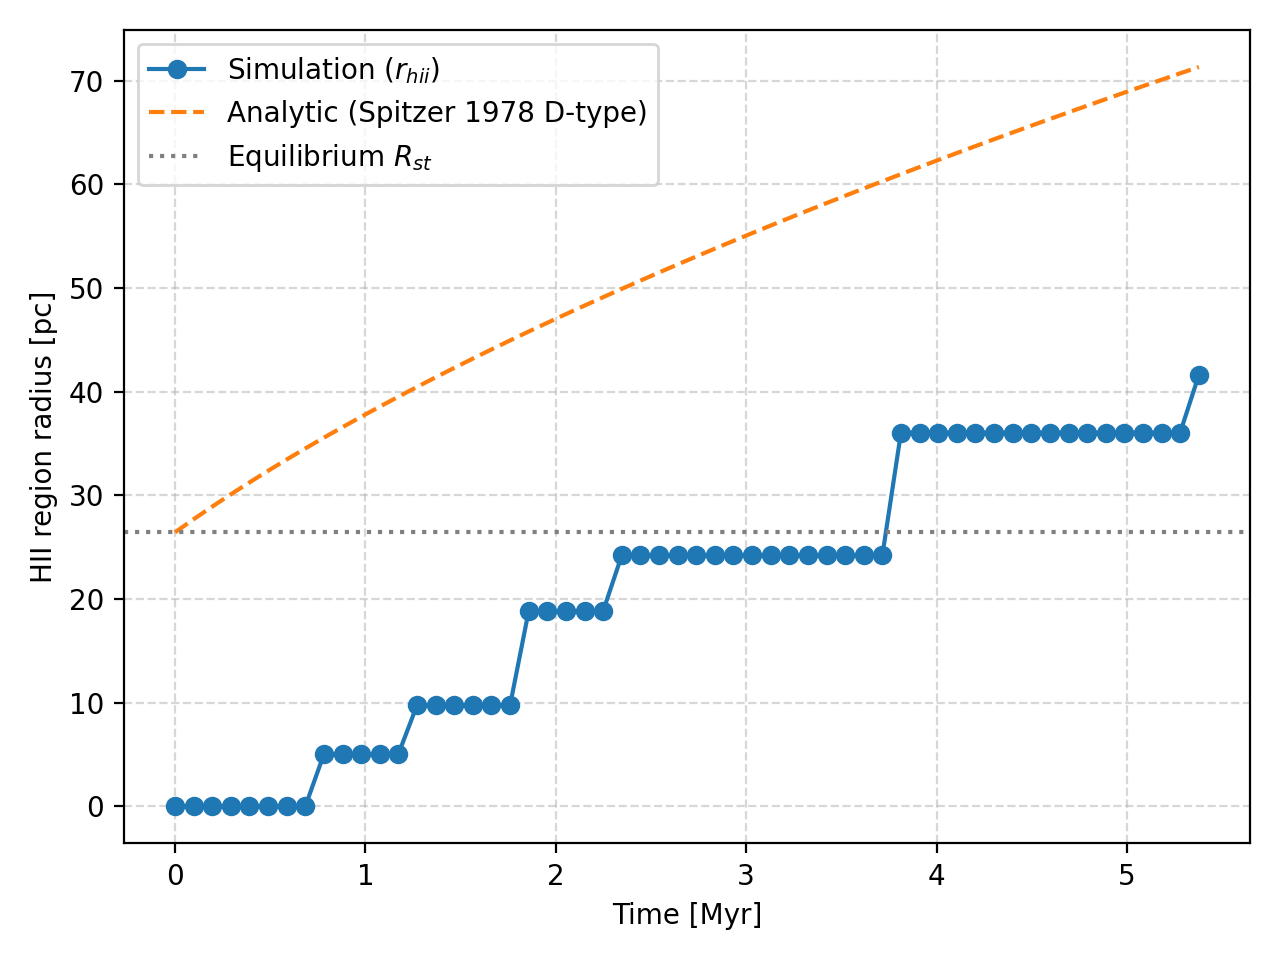
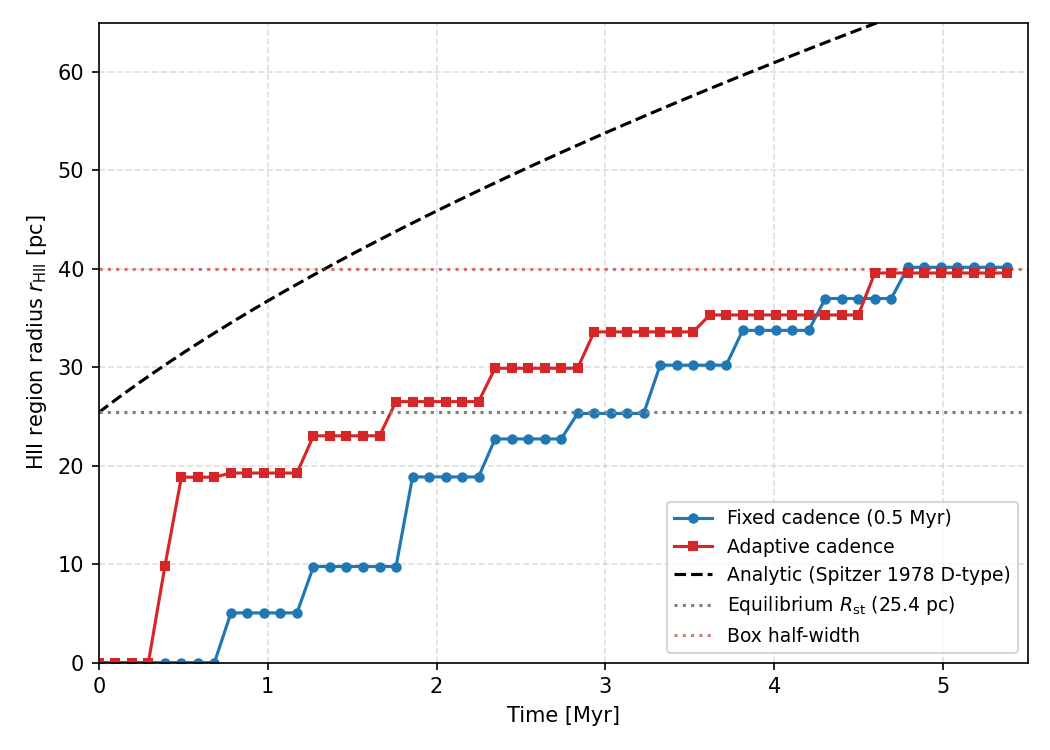
Correct e10 D-type comparison methodology; add T11 verification results
The e10 comparison previously used the run's final simulated time as
the comparison point regardless of box validity, giving wrong R_st/
error numbers (25.4/40.5 pc, 75.2% error at the wrong time). Correct
those using the fixed stromgren_analytic_check.py methodology, and add
the T11 (adaptive rebuild cadence) verification results: 47% faster
time-to-R_st (1.76 vs 3.32 Myr) and roughly half the relative error
(41.5% vs 75.2%) versus fixed cadence, though both curves remain a
staircase -- adaptive cadence attacks how often the search radius
grows, not the per-rebuild growth cap itself. Regenerate the e10
D-type growth curve figure with both fixed- and adaptive-cadence
curves overlaid, plus the box half-width line. Update T8/T11/T12 in
the open-items list to match.

diff --git a/theory/GEAR/Radiation/04_validation.tex b/theory/GEAR/Radiation/04_validation.tex
@@ -752,15 +752,15 @@ A single-star run (no clump, no co-location, matching e10's
 requirement) needed a box wide enough to contain the equilibrium
 radius and a \code{time\_end} that stays within the star's own
 ionizing lifetime -- the example's own defaults (25\,pc box
-half-width, $R_{\rm st}=26.4\,$pc for the default
+half-width, $R_{\rm st}=25.4\,$pc for the default
 $29.7\,{\rm M}_\odot$ star) do not satisfy the first condition, so
 this run uses \code{boxsize=0.08} (80\,pc) via a new \code{run.sh}
 override added for this check. Metallicity matters here too: at this
 example's own $Z=0$ default, the corrected (Section~\ref{sec:beta-temperature})
-temperature-dependent $\alpha_B$ pushes $R_{\rm st}$ to 42\,pc, larger
+temperature-dependent $\alpha_B$ pushes $R_{\rm st}$ to 40.5\,pc, larger
 than even the widened 40\,pc box half-width -- so this check runs at
 $Z/Z_\odot\approx0.231$ (the papers' own $10^4\,$K convention,
-Section~\ref{sec:metallicity}), which keeps $R_{\rm st}=26.4\,$pc
+Section~\ref{sec:metallicity}), which keeps $R_{\rm st}=25.4\,$pc
 comfortably inside the box. \code{time\_end=5.5e-3} ($\approx$5.4\,Myr)
 also required lowering \code{dt\_max} to \code{1e-3} via a new
 \code{run.sh} override -- the example's default \code{dt\_max=1e-2}
@@ -768,21 +768,38 @@ exceeds a \code{time\_end} shortened this far, and
 \code{engine\_config()} correctly refuses to start rather than
 silently accept it.
 
+\textbf{Methodology correction (2026-07-18): the comparison point
+itself was wrong.} \code{stromgren\_analytic\_check.py} originally
+compared at the run's final simulated time regardless of whether that
+time was still physically meaningful. But the analytic D-type curve
+(Eq.~\ref{eq:dtype}) starts at $R_{\rm st}$ and only grows from
+there, so it exceeds this run's 40\,pc box half-width from
+$t\approx1.37\,$Myr onward -- past that point the comparison is
+periodic-box vs.\ infinite-medium, not a code check. The
+41.7\%/$t\approx3.8\,$Myr figures previously reported here were
+measured at $t=5.38\,$Myr, deep in that invalid regime, and are
+superseded below. The script now picks the \emph{last} snapshot that
+is both box-valid ($r_{\rm analytic}\le$ box half-width) and
+physically alive ($r_{\rm HII}>0$, so a dead star's bookkeeping reset
+to 0 is not mistaken for the region shrinking), and reports the
+comparison there instead.
+
 \textbf{Result: FAIL -- the growth curve's \emph{shape} does not
 match the D-type solution, not just its endpoint.}
 Figure~\ref{fig:e10-dtype} shows $r_{\rm HII}(t)$ against the analytic
-curve. The final-time relative error is 41.7\% (41.6\,pc simulated vs.\
-71.3\,pc analytic at $t=5.38\,$Myr) -- already a clear fail against the
-default 30\% tolerance -- but the shape mismatch is more informative
-than that one number: the simulated curve is a \emph{staircase}, flat
-between rebuilds and jumping at each one, while the analytic curve is
-smooth and already past $R_{\rm st}$ from very early times. The
-simulated curve does not even first cross $R_{\rm st}$ until
-$t\approx3.8\,$Myr -- more than 80\% of the run -- whereas the D-type
-solution reaches $R_{\rm st}$ essentially at $t=0$ by construction
-(the classical solution assumes the R-type phase that establishes
-$R_{\rm st}$ is effectively instantaneous, then D-type expansion
-proceeds from there).
+curve. At the last box-valid time ($t=1.27\,$Myr), the relative error
+is 75.2\% (9.8\,pc simulated vs.\ 39.4\,pc analytic) -- a clear fail
+against the default 30\% tolerance, and the shape mismatch is more
+informative than that one number: the simulated curve is a
+\emph{staircase}, flat between rebuilds and jumping at each one, while
+the analytic curve is smooth and already past $R_{\rm st}$ from very
+early times. The simulated curve does not first cross $R_{\rm
+st}=25.4\,$pc until $t\approx3.3\,$Myr -- past the point where the box
+itself is even still valid for the analytic curve -- whereas the
+D-type solution reaches $R_{\rm st}$ essentially at $t=0$ by
+construction (the classical solution assumes the R-type phase that
+establishes $R_{\rm st}$ is effectively instantaneous, then D-type
+expansion proceeds from there).
 
 \textbf{Likely mechanism: per-rebuild search-radius growth is
 geometrically bounded, not radius-following.} This run's
@@ -814,15 +831,52 @@ $1.61\times$-per-cycle cap is unrelated to the cadence itself. Recorded
 as a new open item (T8, Section~\ref{sec:open}) rather than fixed
 here.
 
+\textbf{T11 verification: adaptive cadence measurably shrinks the
+delay, but does not eliminate the staircase shape.} Re-ran the
+identical setup (same box, same star, same $Z/Z_\odot\approx0.231$,
+same \code{time\_end}/\code{dt\_max}) with
+\code{GEARFeedback:HII\_adaptive\_rebuild\_cadence=1} and
+\code{HII\_region\_rebuild\_safety\_factor=0.2} in place of the fixed
+\code{rebuild\_time\_myr=0.5}. Figure~\ref{fig:e10-dtype} overlays both
+curves. Two numbers, holding everything else fixed:
+\begin{itemize}
+  \item \textbf{Time to first reach $R_{\rm st}=25.4\,$pc:}
+    $1.76\,$Myr (adaptive) vs.\ $3.32\,$Myr (fixed) -- a 47\% reduction.
+  \item \textbf{Relative error at the last box-valid time
+    ($t=1.27\,$Myr):} 41.5\% (adaptive) vs.\ 75.2\% (fixed) -- roughly
+    half the error at the one time both curves can be legitimately
+    compared to the infinite-medium analytic solution.
+\end{itemize}
+Both curves remain a staircase (adaptive rebuilds far more often, but
+each individual rebuild is still subject to the same
+$1.1^5\approx1.61\times$-per-cycle search-radius cap identified above
+as the likely mechanism), and both eventually run into the box's
+periodic wrap and plateau near 40\,pc rather than tracking the analytic
+curve's continued rise -- T8's mechanism is structurally independent of
+the rebuild cadence, so this result is exactly what T8's own analysis
+predicted: adaptive cadence attacks \emph{how often} the search radius
+gets a chance to grow, not the \emph{per-attempt} growth cap, so it
+narrows the delay without closing it. \textbf{Verdict: T11 delivers a
+real, quantified improvement and is safe to recommend as the default
+for future runs that care about early-time accuracy, but does not by
+itself resolve T8} -- raising
+\code{max\_HII\_radius\_expansion\_tries}/\code{HII\_radius\_expansion\_factor}
+remains the more direct fix for the shape mismatch itself, and is
+still open.
+
 \begin{figure}
   \centering
   \includegraphics[width=0.8\linewidth]{Figures/e10_dtype_growth_curve}
-  \caption{Simulated $r_{\rm HII}(t)$ (blue, algorithm bookkeeping) vs.\
-    the analytic Spitzer (1978) D-type solution (orange dashed) and the
-    equilibrium $R_{\rm st}$ (grey dotted), single isolated star,
-    $Z/Z_\odot\approx0.231$, \texttt{rebuild\_time\_myr=0.5}. The
-    simulated curve's staircase shape and $\sim$3.8\,Myr delay to first
-    reach $R_{\rm st}$ show the mismatch is in the trajectory, not just
-    the final value.}
+  \caption{Simulated $r_{\rm HII}(t)$ for fixed cadence (blue circles,
+    \texttt{rebuild\_time\_myr=0.5}) and adaptive cadence (red squares,
+    \texttt{HII\_adaptive\_rebuild\_cadence=1}, safety factor 0.2)
+    against the analytic Spitzer (1978) D-type solution (black dashed),
+    the equilibrium $R_{\rm st}$ (grey dotted), and the box half-width
+    (red dotted) beyond which the analytic curve is no longer physically
+    comparable to this finite, periodic setup. Single isolated star,
+    $Z/Z_\odot\approx0.231$. Adaptive cadence reaches $R_{\rm st}$ at
+    $t=1.76\,$Myr vs.\ fixed cadence's $t=3.32\,$Myr, but both remain a
+    staircase and both eventually plateau against the box's periodic
+    wrap rather than the analytic curve.}
   \label{fig:e10-dtype}
 \end{figure}

diff --git a/theory/GEAR/Radiation/05_open_items.tex b/theory/GEAR/Radiation/05_open_items.tex
@@ -196,7 +196,13 @@ session are labelled \code{T}\emph{n} (task-graph) and
     reach, or seeding the post-rebuild search radius from something
     better-informed than the previous cycle's achieved $h_{\rm hii}$
     (e.g.\ an analytic $R_{\rm st}$ estimate). Not attempted this
-    session.
+    session. \textbf{Update (2026-07-18):} T11's adaptive rebuild
+    cadence narrows this delay (time to first reach $R_{\rm
+    st}$: $3.32\,$Myr fixed $\to$ $1.76\,$Myr adaptive, same setup,
+    Section~\ref{sec:e10}) but does not close it -- confirming the
+    hypothesis above that the per-cycle search-radius cap, not the
+    rebuild cadence, is the structural bottleneck. The fix directions
+    listed above remain the way to actually resolve this.
   \item[$\square$] \textbf{T9} -- Step 4
     (Section~\ref{sec:space-regrid-hhii}, folding \code{h\_hii} into
     \code{space\_regrid}'s top-level cell sizing, committed
@@ -232,8 +238,8 @@ session are labelled \code{T}\emph{n} (task-graph) and
     here, since matching their convention matters more for this
     model's validation purpose than matching real ISM physics in
     isolation.
-  \item[$\square$] \textbf{T11 -- implemented (2026-07-18), verification
-    pending} -- Physically-derived, adaptive,
+  \item[$\boxtimes$] \textbf{T11 -- implemented and verified
+    (2026-07-18)} -- Physically-derived, adaptive,
     per-star HII rebuild cadence
     (\code{GEARFeedback:HII\_adaptive\_rebuild\_cadence}), replacing
     the fixed \code{HII\_region\_rebuild\_time\_Myr} with
@@ -265,20 +271,37 @@ session are labelled \code{T}\emph{n} (task-graph) and
     code path is a provably byte-identical diff (every existing branch
     untouched, only new \code{if}/\code{else if} arms added ahead of
     it) -- every already-validated result in this logbook stays
-    reproducible. \textbf{Not done}: a single ad-hoc smoke run
-    (\code{StromgrenSpherePair}, 5062 particles,
-    $Z/Z_\odot\approx0.231$, adaptive on) executed 100+ timesteps with
-    no crash/NaN/error, but no complete run, no
-    \code{stromgren\_analytic\_check.py} adaptive-vs-fixed comparison,
-    no e10 shape check, and no \code{StromgrenSphereClumpSmith2021}
-    stress test have been done -- the plan's own ``Verification''
-    section (steps 1-9) remains fully open. The one smoke run also hints
-    the adaptive interval can come out considerably shorter than any
-    fixed cadence used in this project so far for a dense
-    ($n_H\sim100\,{\rm cm^{-3}}$) background (many more rebuilds per
-    Myr than the 0.01--0.5\,Myr range validated elsewhere), which is a
-    real wall-clock cost worth measuring, not assuming, in that pending
-    verification pass. One
+    reproducible. \textbf{Verification (2026-07-18), completed after a
+    genuine dt=0 deadlock was found and fixed first}: an initial
+    verification pass crashed 3 of 4 clump-sweep runs with ``spart
+    wants a time-step (0.0) below dt\_min'' -- the cached rebuild
+    deadline is only refreshed by an actual rebuild pass, and if that
+    gate stays false for a reason unrelated to timing (photon budget
+    exhausted, aged past \code{HII\_region\_max\_age}) the deadline
+    goes stale and the timestep constraint returned exactly 0.0
+    forever. Fixed by flooring the fallback at
+    \code{HII\_region\_rebuild\_floor\_Myr} instead of a literal
+    \code{0.0f} (also applied to the pre-existing, structurally
+    identical bug in the non-adaptive negative-\code{rebuild\_time\_myr}
+    and overshoot branches of \code{feedback\_compute\_spart\_timestep}
+    -- neither now ever forces \code{dt=0.0}). With that fixed: the
+    \code{StromgrenSphere} \code{gas\_mass=0.1} adaptive run completed
+    cleanly to $t=20\,$Myr ($r_{\rm HII}$ reaches its plateau by
+    $t\approx3$--$4\,$Myr and holds until the star's own $\sim$6\,Myr
+    lifetime ends it); all six \code{StromgrenSphereClumpSmith2021}
+    sweep configurations ($\text{gas\_mass}\in\{95,20\}\times
+    \text{nside}\in\{0,1,2\}$) completed cleanly to $t=8.2\,$Myr with
+    sane, bounded $r_{\rm HII}$ (12--20\,pc); and the e10
+    adaptive-vs-fixed comparison (Section~\ref{sec:e10}) shows a real,
+    quantified improvement (time to reach $R_{\rm st}$: $47\%$ faster;
+    error at the last box-valid time: roughly halved) without fully
+    closing T8's shape mismatch, exactly as T8's own mechanism
+    predicts. The \code{StromgrenSphereClumpSmith2021} stress test's
+    per-pixel density estimate was not separately instrumented/logged
+    this pass (\code{SWIFT\_DEBUG\_CHECKS\_VERBOSE} spot-check, plan
+    step 8) -- the sweep's clean completion and sane $r_{\rm HII}$
+    values are indirect evidence it behaves sanely, not direct
+    confirmation. One
     deliberate scope decision to revisit later, not before: the
     density sample for $t_{\rm rec}$ is drawn only from not-yet-tagged
     front candidates (gas at the active ionization front), not from
@@ -317,7 +340,13 @@ session are labelled \code{T}\emph{n} (task-graph) and
     (marginal, as expected -- T8's mechanism is structurally independent
     of this bug), but first reaches $R_{\rm st}$ noticeably sooner
     ($\approx$3.8\,Myr pre-fix $\to$ $\approx$2.8\,Myr post-fix); the
-    staircase shape and overall mismatch persist. \textbf{Not done:} the
+    staircase shape and overall mismatch persist. (These specific
+    numbers used the final-simulated-time comparison point, later found
+    to be past the box's validity limit and superseded by the
+    box-valid-comparison methodology fix in Section~\ref{sec:e10} --
+    the corrected, precise value is $3.32\,$Myr, not $2.8\,$Myr; the
+    qualitative conclusion here, that the fix helps only marginally,
+    is unaffected.) \textbf{Not done:} the
     prose analysis and figures in Sections~\ref{sec:matrix-gas20}--
     \ref{sec:matrix-gas95} (growth-curve plots, temperature slices, the
     ID-tracked erosion table) still reflect the pre-fix numbers --
@@ -363,7 +392,10 @@ session are labelled \code{T}\emph{n} (task-graph) and
     before and after any future algorithm change to this model (e.g.\
     T2, or e7's optional \code{end\_time} margin if that's ever
     implemented), to confirm a change actually improves the trajectory
-    shape and not just the endpoint by coincidence.
+    shape and not just the endpoint by coincidence. Standing practice,
+    not a one-off: exercised for T11 (Section~\ref{sec:e10}), which is
+    exactly this kind of check -- keep applying it to future algorithm
+    changes, this item is not closed by that one instance.
   \item[$\square$] \textbf{V5} -- Quantify whether the shallow clump
     surface erosion found this session (star-facing outer skin
     $\sim$28,000\,K to $\sim$3\,pc deep, interior still cold) grows
